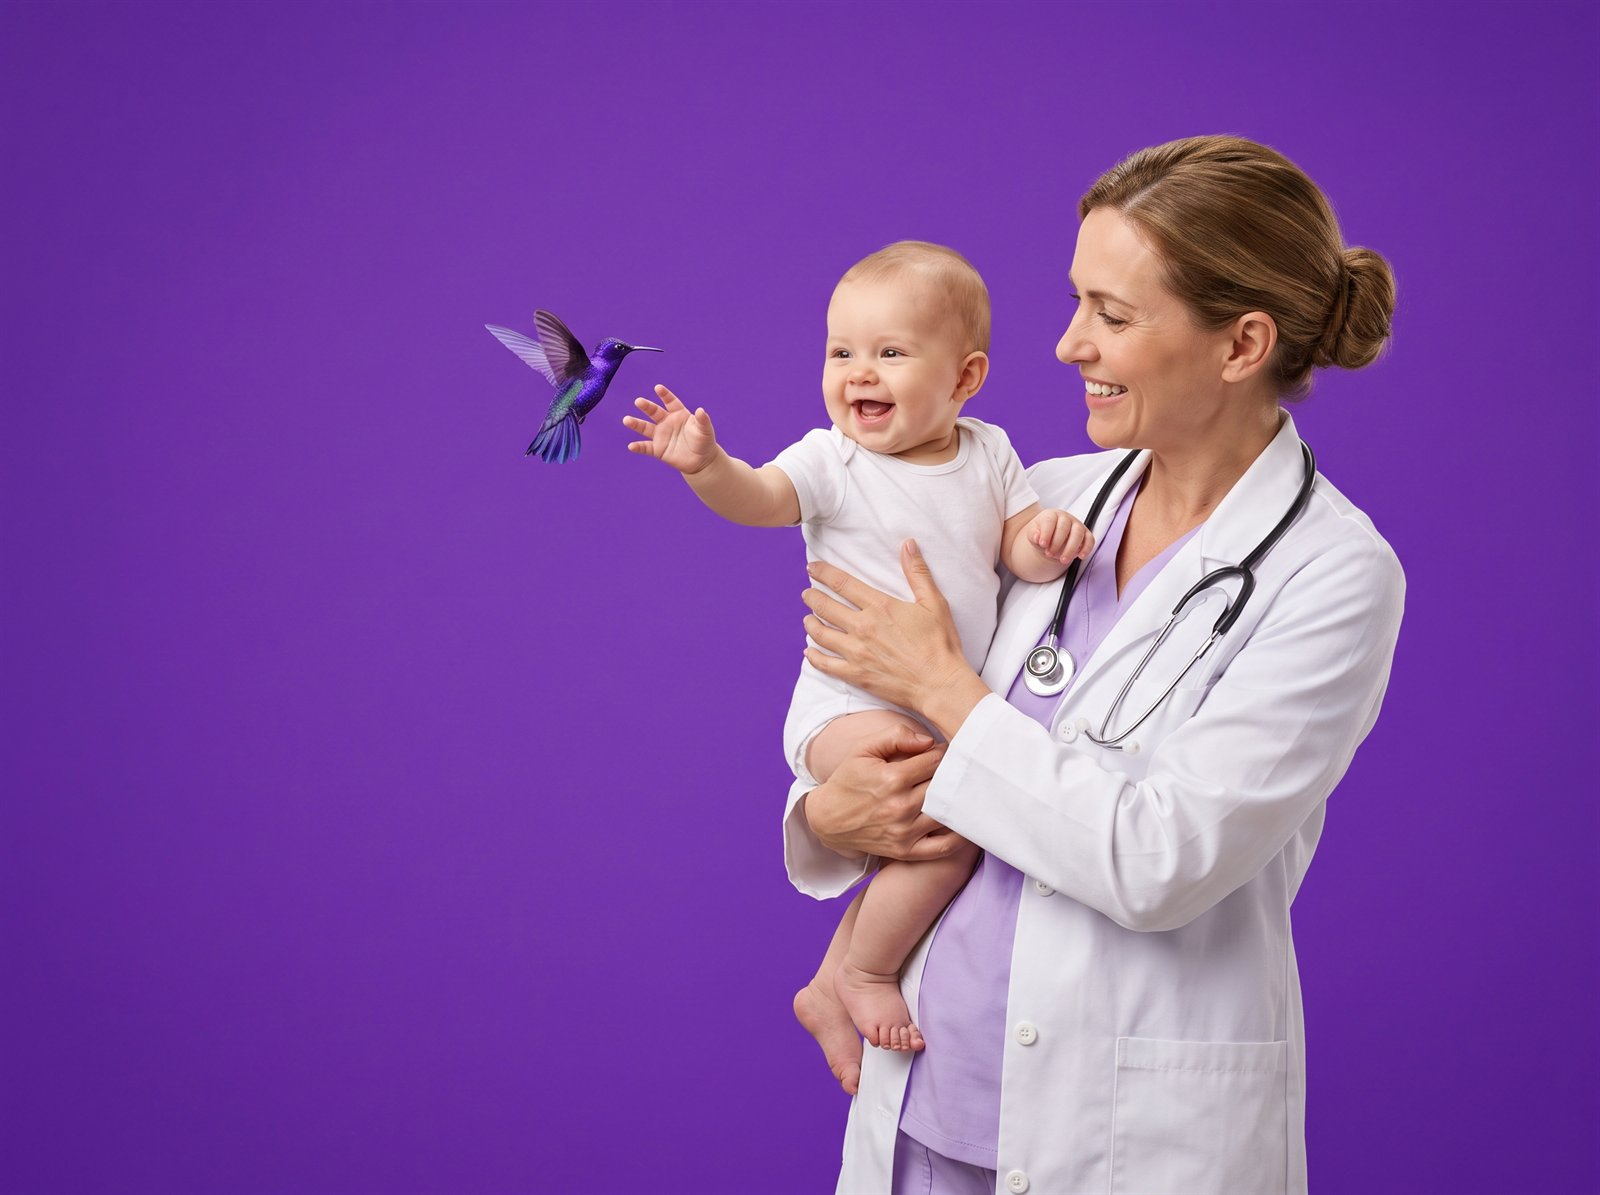
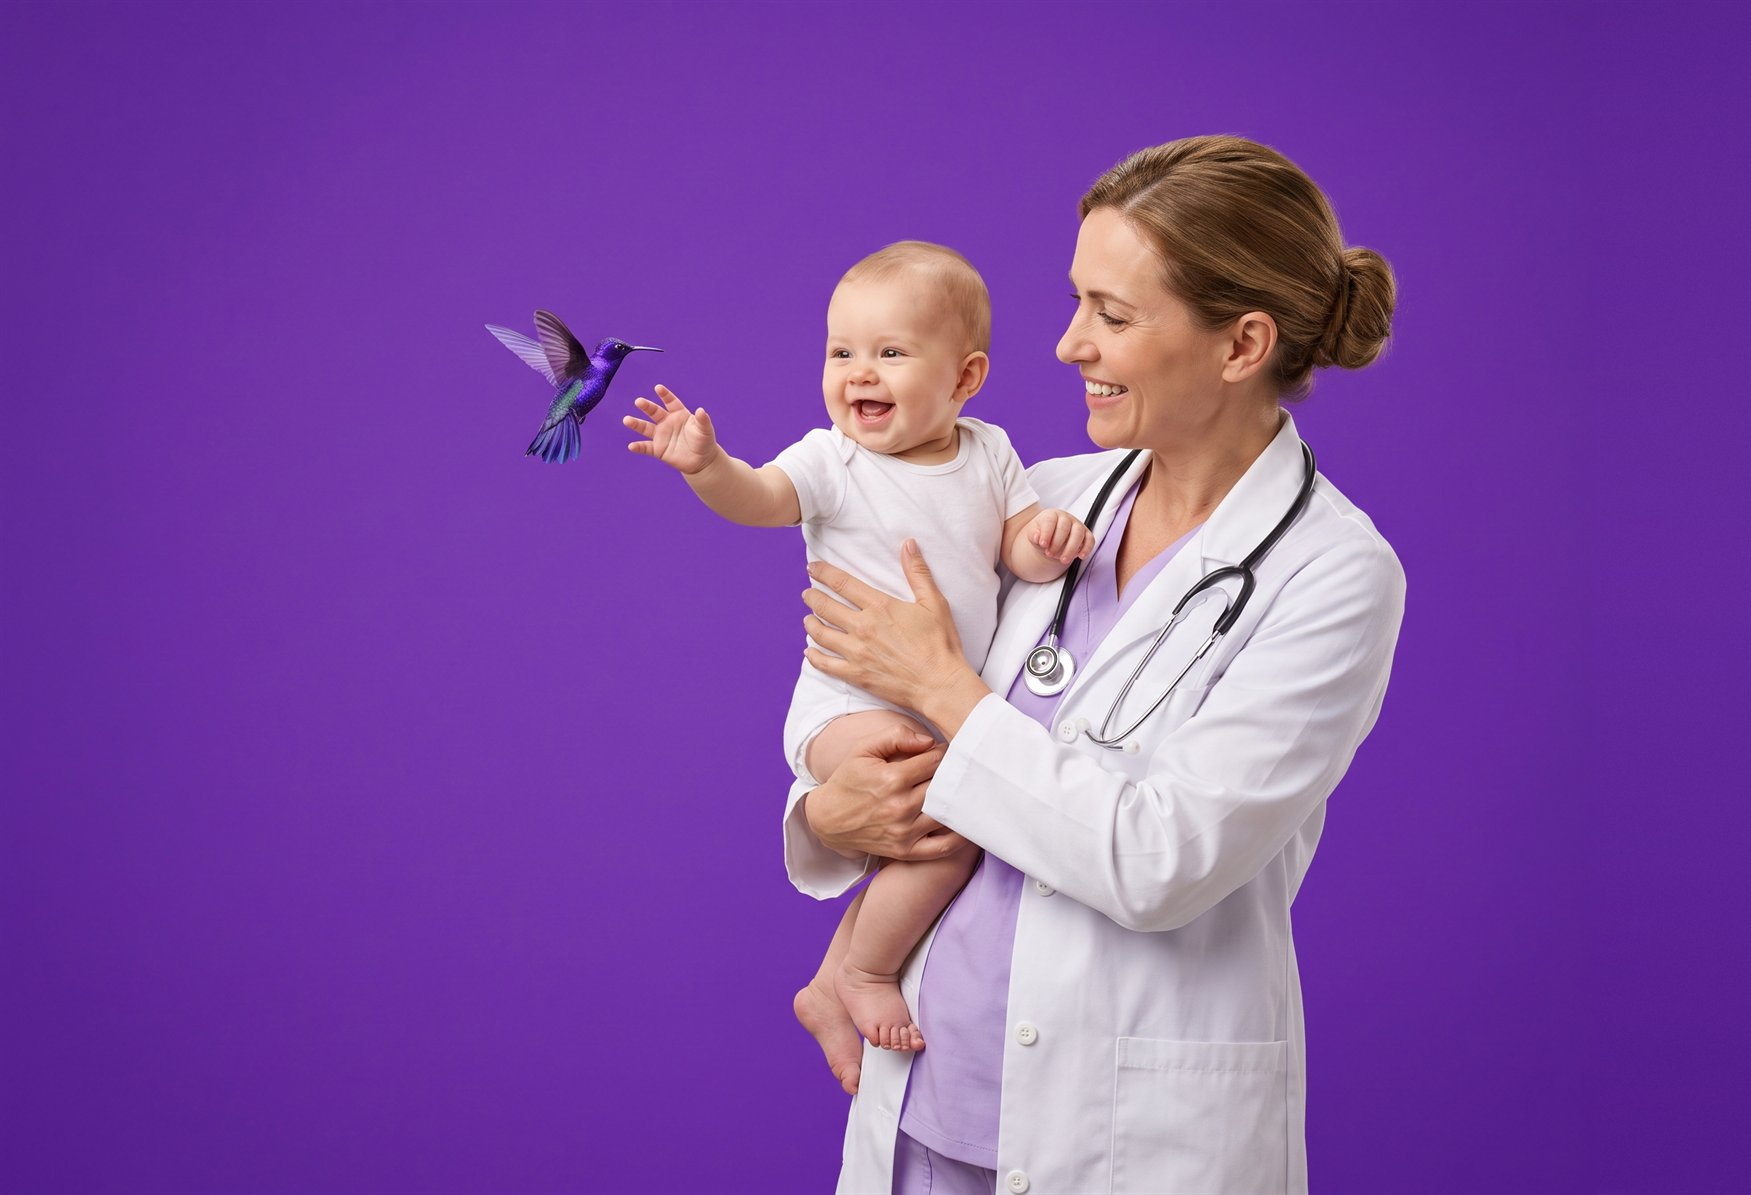
Слайдер: люди на фото сдвинуты к центру между текстом и правым краем (фон дорисован справа, фото прижато вправо)

Changed region(s): [[0.2812, 0.0929, 0.875, 1.0]]

diff --git a/css/style.css b/css/style.css
@@ -170,14 +170,16 @@ p { margin: 0 0 1em; }
 .slide__text { padding: 56px 24px 88px 56px; display: flex; flex-direction: column; justify-content: center; position: relative; z-index: 2; }
 .slide__text h2 { color: #fff; font-size: clamp(28px, 3.3vw, 42px); margin-bottom: 14px; }
 .slide__text p { font-size: 17px; opacity: .92; max-width: 520px; margin-bottom: 28px; }
-.slide__photo { position: relative; }
+/* фото заходит под текст на 40 px и прижато к правому краю: справа у фото дорисован фон
+   (цветокор\баннеры-gemini.ps1, $Extend), поэтому люди стоят по центру между текстом и краем слайда */
+.slide__photo { position: relative; margin-left: -40px; }
 .slide__photo .ph {
   border-radius: 0; height: 100%; min-height: 320px; background: transparent;
-  /* фото растворяется в фоне баннера: маска прозрачная слева, непрозрачная с 36 % ширины (как у баннеров страниц) */
-  -webkit-mask-image: linear-gradient(90deg, rgba(0,0,0,0) 0%, rgba(0,0,0,.5) 16%, #000 36%);
-  mask-image: linear-gradient(90deg, rgba(0,0,0,0) 0%, rgba(0,0,0,.5) 16%, #000 36%);
+  /* фото растворяется в фоне слайда: маска прозрачная слева, непрозрачная с 22 % ширины */
+  -webkit-mask-image: linear-gradient(90deg, rgba(0,0,0,0) 0%, rgba(0,0,0,.5) 10%, #000 22%);
+  mask-image: linear-gradient(90deg, rgba(0,0,0,0) 0%, rgba(0,0,0,.5) 10%, #000 22%);
 }
-.slide__photo .ph img { width: 100%; height: 100%; object-position: center top; }
+.slide__photo .ph img { width: 100%; height: 100%; object-position: right top; }
 .slide__photo .ph::before { display: none; }
 .slider__dots { position: absolute; left: 56px; bottom: 30px; display: flex; gap: 10px; z-index: 3; }
 .slider__dot { width: 12px; height: 12px; border-radius: 50%; background: rgba(255,255,255,.4); border: 0; cursor: pointer; padding: 0; transition: .2s; }
@@ -199,7 +201,7 @@ p { margin: 0 0 1em; }
   /* лишняя высота (слайды выравниваются по самому высокому) уходит в текст, фото остаётся 4:3 */
   .slide { grid-template-columns: minmax(0, 1fr); grid-template-rows: auto 1fr; min-height: 0; }
   .slide__text { padding: 36px 24px 76px; order: 2; }
-  .slide__photo { order: 1; }
+  .slide__photo { order: 1; margin-left: 0; }
   /* на телефоне фото целиком (4:3), фон фото совпадает с фоном слайда — растворяем только нижний край */
   .slide__photo .ph {
     min-height: 0; height: auto; aspect-ratio: 4/3;

diff --git a/app-concept.html b/app-concept.html
@@ -9,7 +9,7 @@
   <link rel="preconnect" href="https://fonts.googleapis.com">
   <link rel="preconnect" href="https://fonts.gstatic.com" crossorigin>
   <link href="https://fonts.googleapis.com/css2?family=Comfortaa:wght@400;600;700&family=Nunito:wght@400;600;700;800&display=swap" rel="stylesheet">
-  <link rel="stylesheet" href="css/style.css?v=202610012112">
+  <link rel="stylesheet" href="css/style.css?v=202610012123">
   <style>
     /* ---------- страница ---------- */
     .concept-hero { background: linear-gradient(120deg, var(--p600), var(--p800)); color: #fff; border-radius: 32px; padding: 44px 48px; margin-top: 24px; display: grid; grid-template-columns: 1.2fr .8fr; gap: 32px; align-items: center; position: relative; overflow: hidden; }
@@ -778,8 +778,8 @@
   <symbol id="a-alert" viewBox="0 0 24 24" fill="none" stroke="currentColor" stroke-width="2" stroke-linecap="round" stroke-linejoin="round"><circle cx="12" cy="12" r="9"/><path d="M12 7v6M12 16h.01"/></symbol>
 </svg>
 
-<script src="js/data.js?v=202610012112"></script>
-<script src="js/photos.js?v=202610012112"></script>
-<script src="js/main.js?v=202610012112"></script>
+<script src="js/data.js?v=202610012123"></script>
+<script src="js/photos.js?v=202610012123"></script>
+<script src="js/main.js?v=202610012123"></script>
 </body>
 </html>

diff --git a/rostomer.html b/rostomer.html
@@ -8,7 +8,7 @@
   <link rel="preconnect" href="https://fonts.googleapis.com">
   <link rel="preconnect" href="https://fonts.gstatic.com" crossorigin>
   <link href="https://fonts.googleapis.com/css2?family=Comfortaa:wght@400;600;700&family=Nunito:wght@400;600;700;800&display=swap" rel="stylesheet">
-  <link rel="stylesheet" href="css/style.css?v=202610012112">
+  <link rel="stylesheet" href="css/style.css?v=202610012123">
   <style>
     .intro { background: #fff; border-radius: var(--radius); padding: 24px 28px; box-shadow: var(--shadow); margin-bottom: 28px; }
     .intro p { margin: 0 0 8px; font-size: 15px; }
@@ -90,10 +90,10 @@
   </div>
 </section>
 
-<script src="js/data.js?v=202610012112"></script>
-<script src="js/photos.js?v=202610012112"></script>
-<script src="js/main.js?v=202610012112"></script>
-<script src="js/rostomer.js?v=202610012112"></script>
+<script src="js/data.js?v=202610012123"></script>
+<script src="js/photos.js?v=202610012123"></script>
+<script src="js/main.js?v=202610012123"></script>
+<script src="js/rostomer.js?v=202610012123"></script>
 <script>
 (function () {
   window.ROSTOMER.variants.forEach(function (v, i) {

diff --git a/index.html b/index.html
@@ -9,7 +9,7 @@
   <link rel="preconnect" href="https://fonts.googleapis.com">
   <link rel="preconnect" href="https://fonts.gstatic.com" crossorigin>
   <link href="https://fonts.googleapis.com/css2?family=Comfortaa:wght@400;600;700&family=Nunito:wght@400;600;700;800&display=swap" rel="stylesheet">
-  <link rel="stylesheet" href="css/style.css?v=202610012112">
+  <link rel="stylesheet" href="css/style.css?v=202610012123">
 </head>
 <body>
 
@@ -237,8 +237,8 @@
   </div>
 </section>
 
-<script src="js/data.js?v=202610012112"></script>
-<script src="js/photos.js?v=202610012112"></script>
-<script src="js/main.js?v=202610012112"></script>
+<script src="js/data.js?v=202610012123"></script>
+<script src="js/photos.js?v=202610012123"></script>
+<script src="js/main.js?v=202610012123"></script>
 </body>
 </html>

diff --git a/ceny.html b/ceny.html
@@ -9,7 +9,7 @@
   <link rel="preconnect" href="https://fonts.googleapis.com">
   <link rel="preconnect" href="https://fonts.gstatic.com" crossorigin>
   <link href="https://fonts.googleapis.com/css2?family=Comfortaa:wght@400;600;700&family=Nunito:wght@400;600;700;800&display=swap" rel="stylesheet">
-  <link rel="stylesheet" href="css/style.css?v=202610012112">
+  <link rel="stylesheet" href="css/style.css?v=202610012123">
 </head>
 <body>
 
@@ -63,8 +63,8 @@
   </div>
 </section>
 
-<script src="js/data.js?v=202610012112"></script>
-<script src="js/photos.js?v=202610012112"></script>
-<script src="js/main.js?v=202610012112"></script>
+<script src="js/data.js?v=202610012123"></script>
+<script src="js/photos.js?v=202610012123"></script>
+<script src="js/main.js?v=202610012123"></script>
 </body>
 </html>

diff --git a/kontakty.html b/kontakty.html
@@ -9,7 +9,7 @@
   <link rel="preconnect" href="https://fonts.googleapis.com">
   <link rel="preconnect" href="https://fonts.gstatic.com" crossorigin>
   <link href="https://fonts.googleapis.com/css2?family=Comfortaa:wght@400;600;700&family=Nunito:wght@400;600;700;800&display=swap" rel="stylesheet">
-  <link rel="stylesheet" href="css/style.css?v=202610012112">
+  <link rel="stylesheet" href="css/style.css?v=202610012123">
 </head>
 <body>
 
@@ -55,8 +55,8 @@
   </div>
 </section>
 
-<script src="js/data.js?v=202610012112"></script>
-<script src="js/photos.js?v=202610012112"></script>
-<script src="js/main.js?v=202610012112"></script>
+<script src="js/data.js?v=202610012123"></script>
+<script src="js/photos.js?v=202610012123"></script>
+<script src="js/main.js?v=202610012123"></script>
 </body>
 </html>

diff --git a/o-klinike.html b/o-klinike.html
@@ -9,7 +9,7 @@
   <link rel="preconnect" href="https://fonts.googleapis.com">
   <link rel="preconnect" href="https://fonts.gstatic.com" crossorigin>
   <link href="https://fonts.googleapis.com/css2?family=Comfortaa:wght@400;600;700&family=Nunito:wght@400;600;700;800&display=swap" rel="stylesheet">
-  <link rel="stylesheet" href="css/style.css?v=202610012112">
+  <link rel="stylesheet" href="css/style.css?v=202610012123">
 </head>
 <body>
 
@@ -91,8 +91,8 @@
   </div>
 </section>
 
-<script src="js/data.js?v=202610012112"></script>
-<script src="js/photos.js?v=202610012112"></script>
-<script src="js/main.js?v=202610012112"></script>
+<script src="js/data.js?v=202610012123"></script>
+<script src="js/photos.js?v=202610012123"></script>
+<script src="js/main.js?v=202610012123"></script>
 </body>
 </html>

diff --git a/poleznoe.html b/poleznoe.html
@@ -9,7 +9,7 @@
   <link rel="preconnect" href="https://fonts.googleapis.com">
   <link rel="preconnect" href="https://fonts.gstatic.com" crossorigin>
   <link href="https://fonts.googleapis.com/css2?family=Comfortaa:wght@400;600;700&family=Nunito:wght@400;600;700;800&display=swap" rel="stylesheet">
-  <link rel="stylesheet" href="css/style.css?v=202610012112">
+  <link rel="stylesheet" href="css/style.css?v=202610012123">
 </head>
 <body>
 
@@ -33,8 +33,8 @@
   </div>
 </section>
 
-<script src="js/data.js?v=202610012112"></script>
-<script src="js/photos.js?v=202610012112"></script>
-<script src="js/main.js?v=202610012112"></script>
+<script src="js/data.js?v=202610012123"></script>
+<script src="js/photos.js?v=202610012123"></script>
+<script src="js/main.js?v=202610012123"></script>
 </body>
 </html>

diff --git a/uslugi.html b/uslugi.html
@@ -9,7 +9,7 @@
   <link rel="preconnect" href="https://fonts.googleapis.com">
   <link rel="preconnect" href="https://fonts.gstatic.com" crossorigin>
   <link href="https://fonts.googleapis.com/css2?family=Comfortaa:wght@400;600;700&family=Nunito:wght@400;600;700;800&display=swap" rel="stylesheet">
-  <link rel="stylesheet" href="css/style.css?v=202610012112">
+  <link rel="stylesheet" href="css/style.css?v=202610012123">
 </head>
 <body>
 
@@ -57,8 +57,8 @@
   </div>
 </section>
 
-<script src="js/data.js?v=202610012112"></script>
-<script src="js/photos.js?v=202610012112"></script>
-<script src="js/main.js?v=202610012112"></script>
+<script src="js/data.js?v=202610012123"></script>
+<script src="js/photos.js?v=202610012123"></script>
+<script src="js/main.js?v=202610012123"></script>
 </body>
 </html>

diff --git a/uzi.html b/uzi.html
@@ -9,7 +9,7 @@
   <link rel="preconnect" href="https://fonts.googleapis.com">
   <link rel="preconnect" href="https://fonts.gstatic.com" crossorigin>
   <link href="https://fonts.googleapis.com/css2?family=Comfortaa:wght@400;600;700&family=Nunito:wght@400;600;700;800&display=swap" rel="stylesheet">
-  <link rel="stylesheet" href="css/style.css?v=202610012112">
+  <link rel="stylesheet" href="css/style.css?v=202610012123">
 </head>
 <body>
 
@@ -75,8 +75,8 @@
   </div>
 </section>
 
-<script src="js/data.js?v=202610012112"></script>
-<script src="js/photos.js?v=202610012112"></script>
-<script src="js/main.js?v=202610012112"></script>
+<script src="js/data.js?v=202610012123"></script>
+<script src="js/photos.js?v=202610012123"></script>
+<script src="js/main.js?v=202610012123"></script>
 </body>
 </html>

diff --git a/vrachi.html b/vrachi.html
@@ -9,7 +9,7 @@
   <link rel="preconnect" href="https://fonts.googleapis.com">
   <link rel="preconnect" href="https://fonts.gstatic.com" crossorigin>
   <link href="https://fonts.googleapis.com/css2?family=Comfortaa:wght@400;600;700&family=Nunito:wght@400;600;700;800&display=swap" rel="stylesheet">
-  <link rel="stylesheet" href="css/style.css?v=202610012112">
+  <link rel="stylesheet" href="css/style.css?v=202610012123">
 </head>
 <body>
 
@@ -45,8 +45,8 @@
   </div>
 </section>
 
-<script src="js/data.js?v=202610012112"></script>
-<script src="js/photos.js?v=202610012112"></script>
-<script src="js/main.js?v=202610012112"></script>
+<script src="js/data.js?v=202610012123"></script>
+<script src="js/photos.js?v=202610012123"></script>
+<script src="js/main.js?v=202610012123"></script>
 </body>
 </html>
